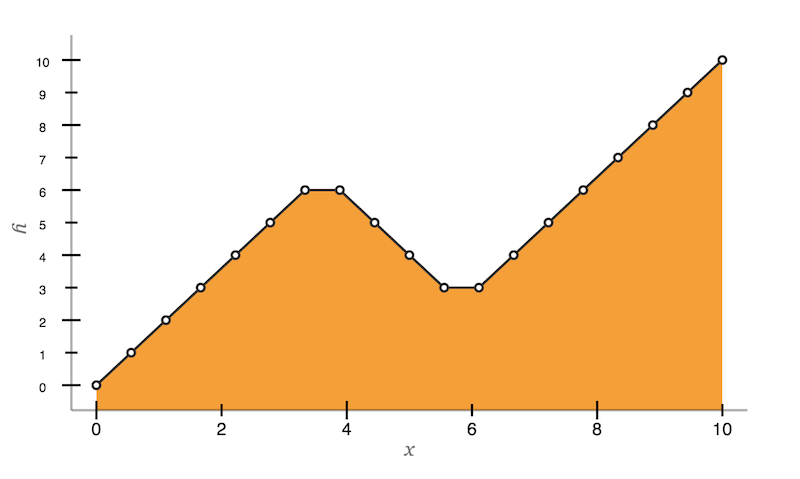
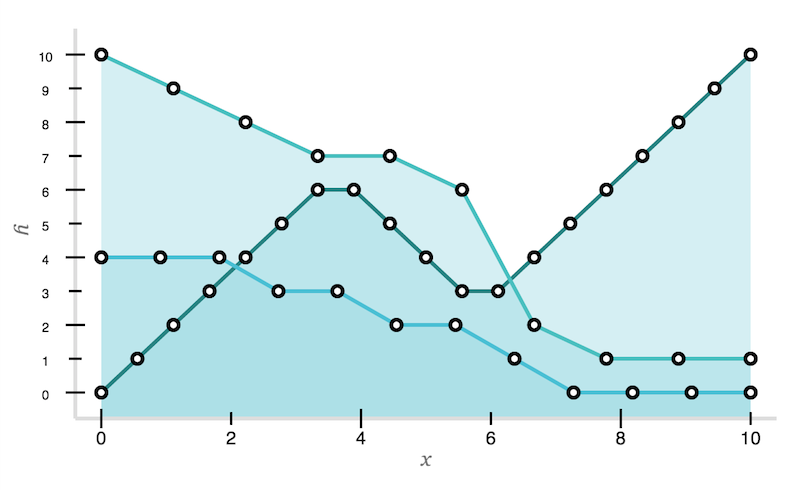
Fixed the default theme to a tad nicer.

diff --git a/Aristochart.js b/Aristochart.js
@@ -71,6 +71,24 @@ var Aristochart = function(element, options, theme) {
 		},
 
 		style: {
+			y: {
+				line: {
+					stroke: "#298281"
+				}
+			},
+
+			y1: {
+				line: {
+					stroke: "#49bfbf"
+				}
+			},
+
+			y2: {
+				line: {
+					stroke: "#49bfd4"
+				}
+			},
+
 			default: {
 				point: {
 					stroke: "#000",
@@ -83,7 +101,7 @@ var Aristochart = function(element, options, theme) {
 				line: {
 					stroke: "#f00",
 					width: 3,
-					fill: "rgba(0,0,0,0.3)"
+					fill: "rgba(150, 215, 226, 0.4)"
 				},
 
 				axis: {
@@ -299,7 +317,7 @@ Aristochart.prototype.render = function() {
 
 			case "line":
 				for(var line in lines)
-					that.options.line.render.call(that, defaults, lines[line]);
+					that.options.line.render.call(that, that.options.style[line] || defaults, lines[line]);
 			break;
 
 			case "tick":

diff --git a/examples/basic/index.html b/examples/basic/index.html
@@ -10,8 +10,10 @@
 	window.graph = new Aristochart(document.body, {
 		data: {
 			x: 10,
-			y: [0, 1, 2, 3, 4, 5, 6, 6, 5, 4, 3, 3, 4, 5, 6, 7, 8, 9, 10]
+			y: [0, 1, 2, 3, 4, 5, 6, 6, 5, 4, 3, 3, 4, 5, 6, 7, 8, 9, 10],
+			y1: [10, 9, 8, 7, 7, 6, 2, 1, 1, 1],
+			y2: [4, 4, 4, 3, 3, 2, 2, 1, 0, 0, 0, 0]
 		}
-	}, Aristochart.themes.orange);
+	});
 </script>
 </html>

diff --git a/README.md b/README.md
@@ -17,7 +17,7 @@ Aristochart has a simple enough interface. Simple plug in the canvas element (or
 			x: 10,
 			y: [0, 1, 2, 3, 4, 5, 6, 6, 5, 4, 3, 3, 4, 5, 6, 7, 8, 9, 10]
 		}
-	}, Aristochart.themes.orange);
+	});
 
 ![Basic](/examples/basic/basic.png "Basic")
 
